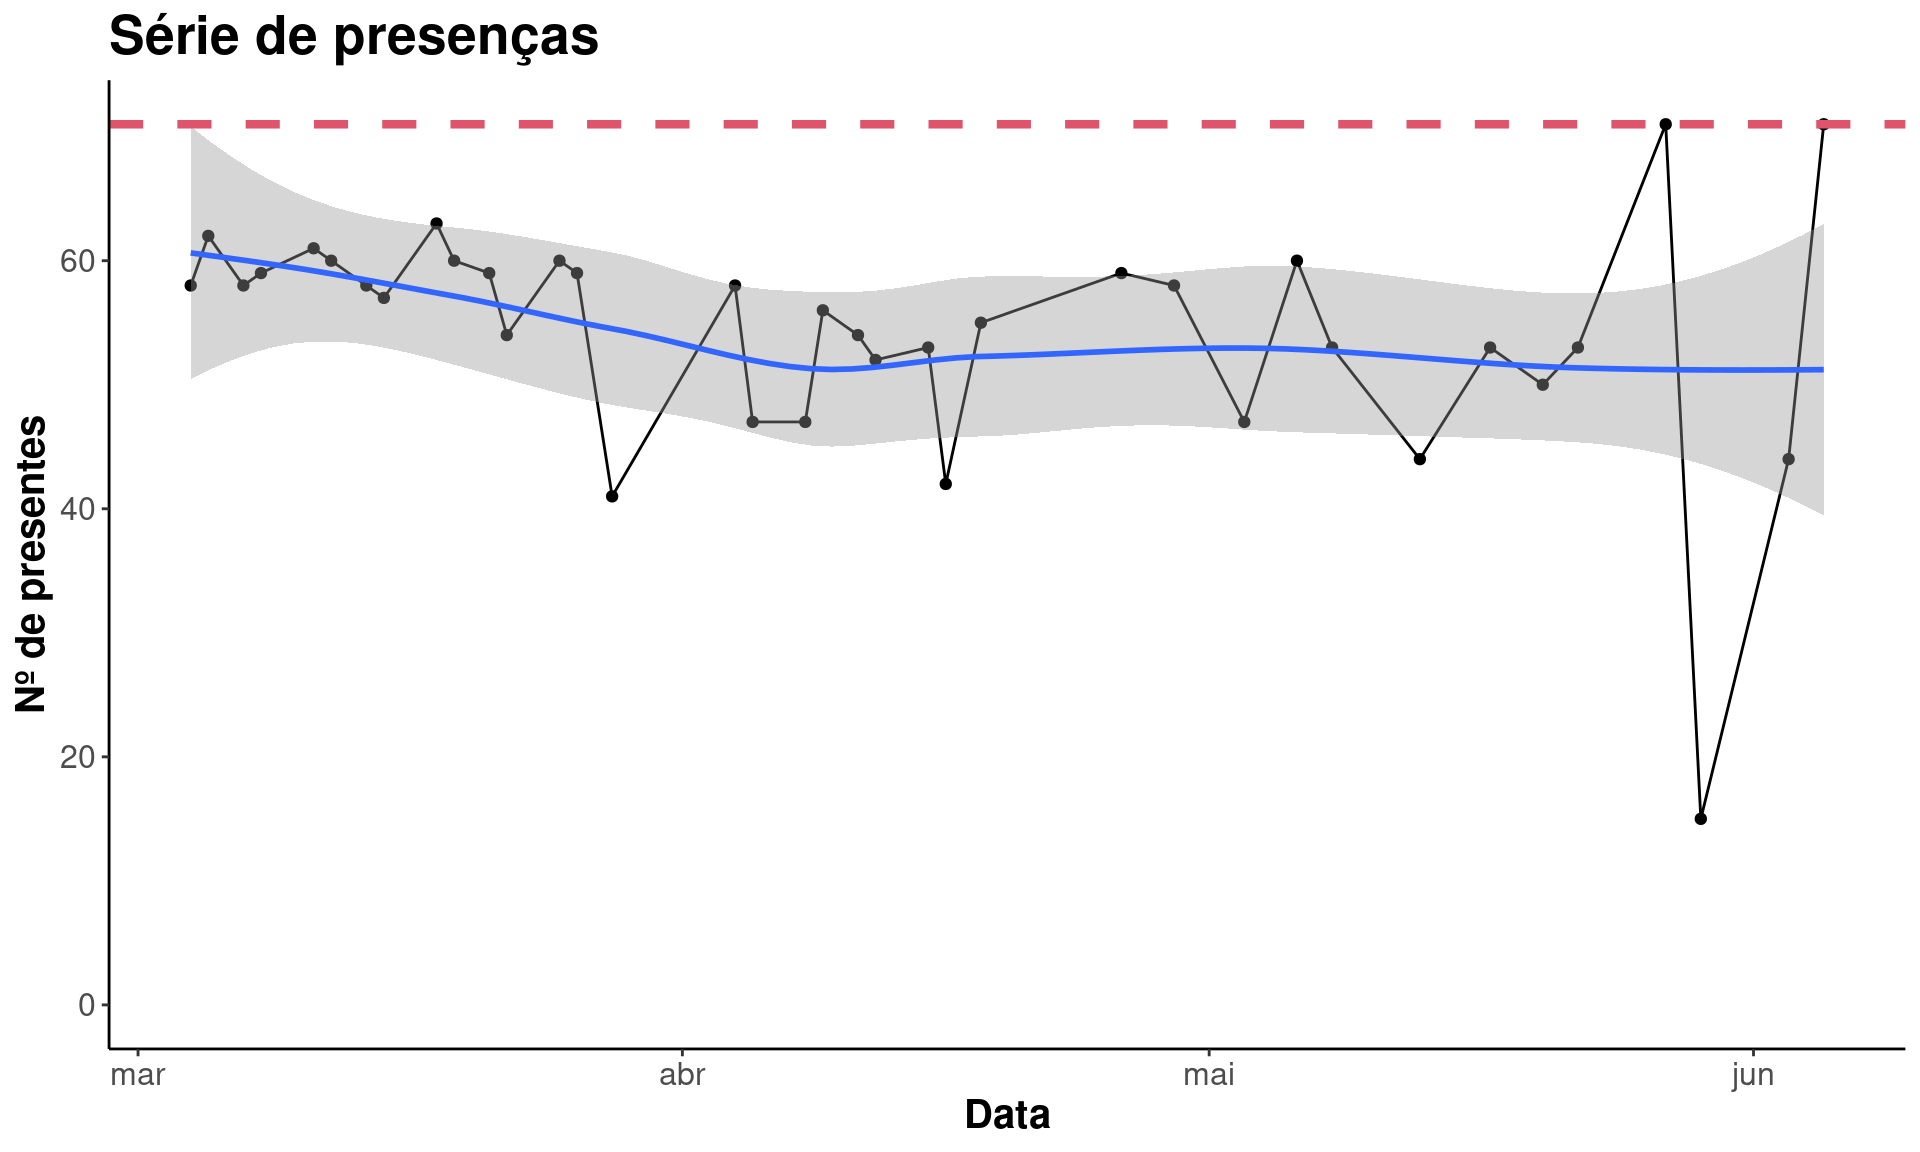
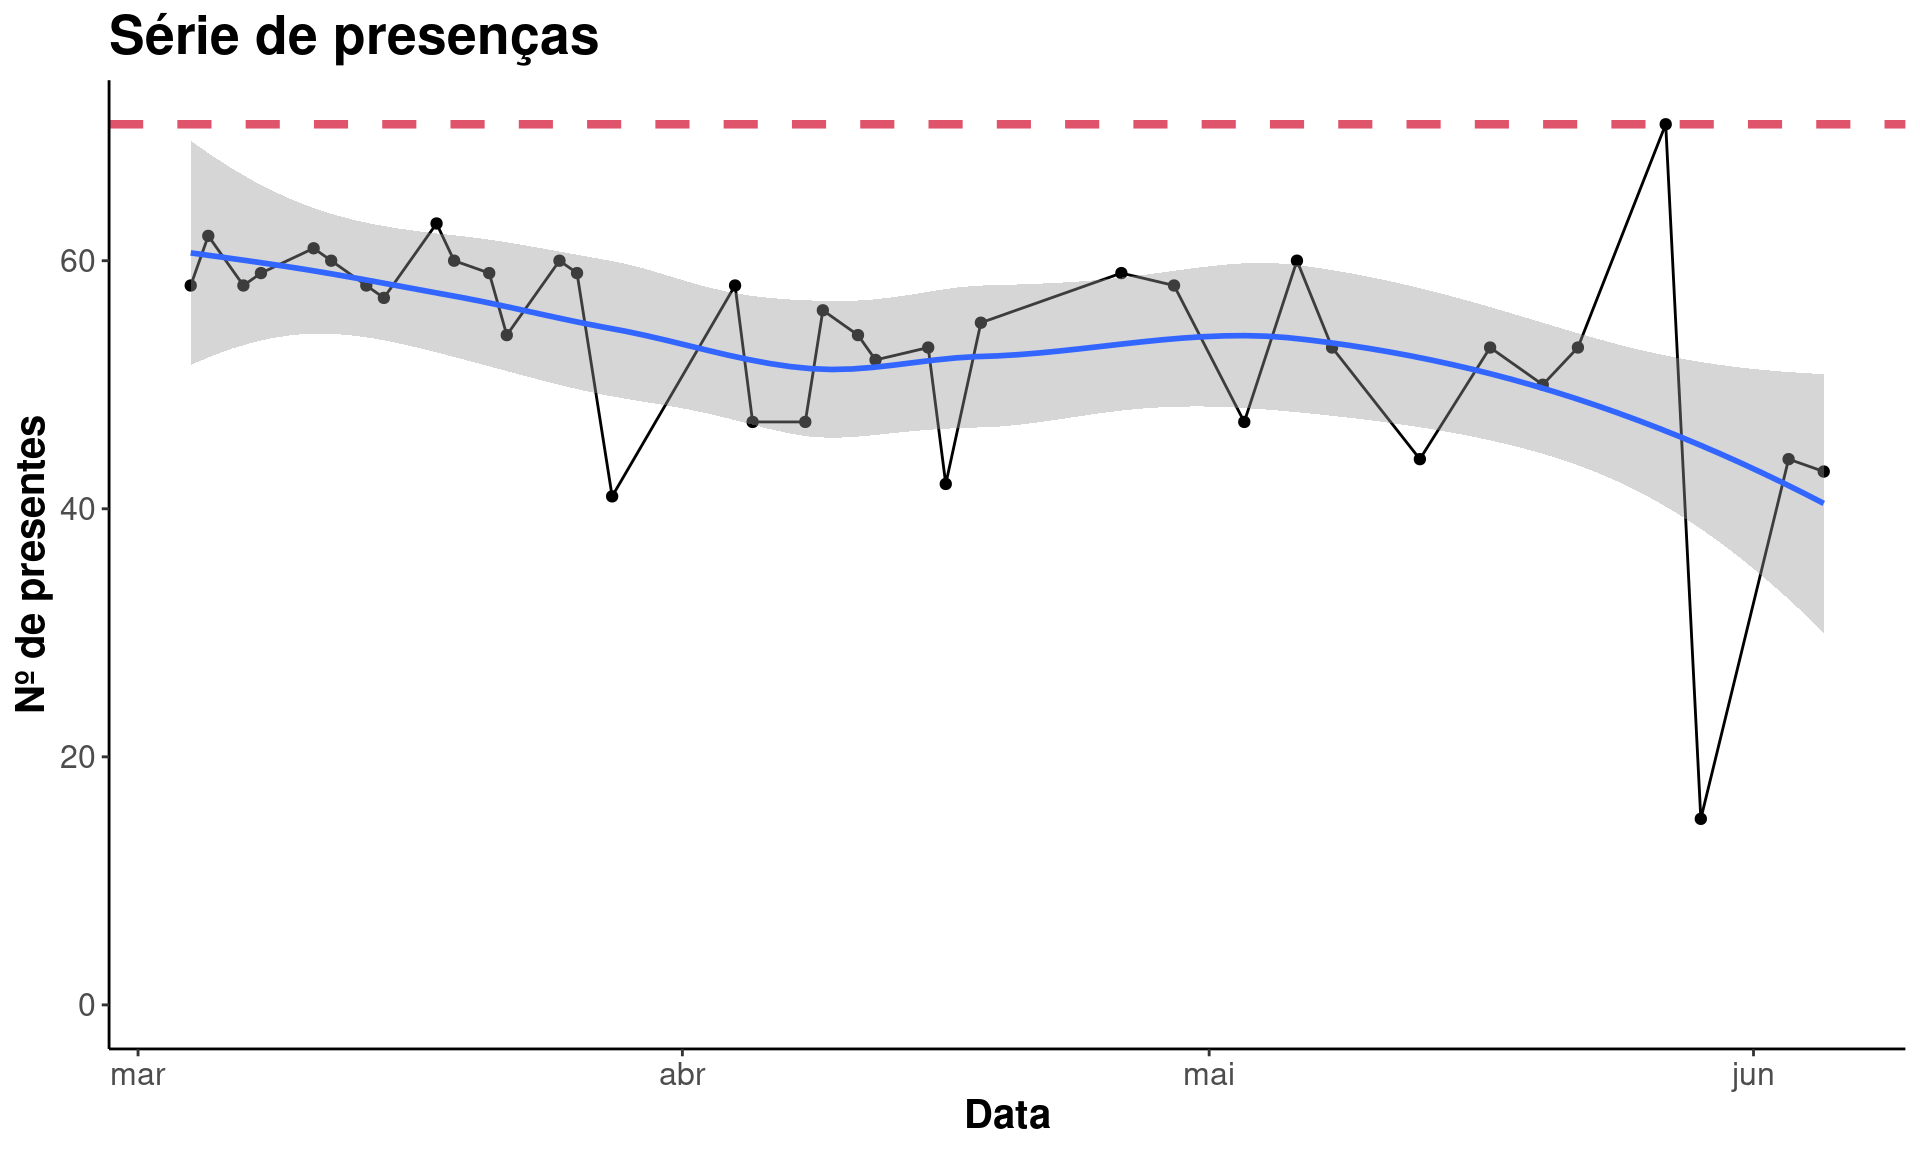
atualiza faltas

diff --git a/notas.html b/notas.html
@@ -423,7 +423,7 @@ Prof. Dra. Silvia Emiko Shimakura</div></h3>
 <p><br />
 </p>
 <div class="datatables html-widget html-fill-item-overflow-hidden html-fill-item" id="htmlwidget-7ca705643021e4e98bbe" style="width:100%;height:auto;"></div>
-<script type="application/json" data-for="htmlwidget-7ca705643021e4e98bbe">{"x":{"filter":"none","vertical":false,"editable":{"target":"cell","disable":{"columns":null},"numeric":[1,2,3,4,5,6,7,8,9,10],"date":[]},"data":[["GRR20233873","GRR20240210","GRR20242448","GRR20241331","GRR20244190","GRR20241678","GRR20243150","GRR20240436","GRR20243413","GRR20242873","GRR20242352","GRR20244982","GRR20222245","GRR20244660","GRR20240331","GRR20243352","GRR20242856","GRR20244777","GRR20233892","GRR20233896","GRR20243557","GRR20241963","GRR20241650","GRR20242304","GRR20240528","GRR20243637","GRR20241140","GRR20243507","GRR20243418","GRR20241848","GRR20243242","GRR20244697","GRR20242858","GRR20207109","GRR20240551","GRR20242315","GRR20245109","GRR20243481","GRR20242921","GRR20233900","GRR20241882","GRR20233913","GRR20243709","GRR20241855","GRR20240644","GRR20241293","GRR20212996","GRR20244651","GRR20242530","GRR20233895","GRR20233908","GRR20244852","GRR20241403","GRR20233910","GRR20233917","GRR20233901","GRR20242112","GRR20240395","GRR20244636","GRR20222235","GRR20245017","GRR20243266","GRR20242635","GRR20240257","GRR20244892","GRR20240323","GRR20235505","GRR20233890","GRR20242758","GRR20242968","GRR20241608"],[90,52,2,10,80,34,6,12,0,2,6,90,34,10,20,58,12,82,8,12,22,34,16,12,10,4,0,2,10,6,2,12,16,20,10,48,4,62,14,12,6,34,0,82,86,28,50,2,2,16,8,38,10,18,24,58,12,10,0,86,12,8,30,26,2,12,14,10,8,6,8],[null,null,9.25,9.699999999999999,null,5.3,9,8.75,7.5,7.55,8.35,null,7.1,8.85,8.85,null,8.550000000000001,null,8.25,2.9,6.8,9.25,8.050000000000001,8.5,8.050000000000001,8.699999999999999,8.199999999999999,8.300000000000001,8,3.8,6.25,7.5,8.800000000000001,4.43,8.9,3.2,8.15,null,6.65,5.7,5.45,3.7,8.949999999999999,null,null,8.35,6.2,8.800000000000001,9.1,6.8,8.550000000000001,9.35,8.25,6.05,8.1,null,5.5,4.5,9.550000000000001,null,8.6,9.1,2.9,2.85,7.2,7.1,4.6,7.85,8.300000000000001,9.4,8.25],[null,7.8,9.6,8.5,null,5.8,7.5,7.2,7.5,4.7,9.4,null,4,8,7,null,2.8,null,7.2,2.35,5.85,6.6,9.5,8.199999999999999,4.9,8.199999999999999,9.5,8.5,3.8,3.5,4.5,7.45,7.4,4,7.5,null,8.1,null,7.4,4.95,6.85,6.2,5.9,null,null,8.9,5.1,9,8.5,5.1,7.25,7,7.7,5,5.9,null,4.4,4.9,9,null,9.1,7,4.45,3.5,4.25,6.3,4.8,8.9,7.5,9.199999999999999,8.199999999999999],[null,9.300000000000001,9.800000000000001,9.300000000000001,null,2.1,8.800000000000001,9.300000000000001,8.9,4,9.6,null,null,9.9,5.2,null,8.199999999999999,null,4.4,0.8,6.8,7.9,8.5,8.5,4.7,5.1,7.6,6.6,5.6,3.7,6.5,null,6.6,1.8,7.5,null,8.5,null,7.1,4.8,6.4,2.8,7.2,null,null,null,null,9.5,9.6,3.2,5.4,null,5.5,3.7,3.5,null,5.6,null,10,null,9.800000000000001,6,null,1.3,3.7,7.6,3.6,7.7,7.9,9.800000000000001,7.8],[0,0,9.539999999999999,10,0,8.869999999999999,8.949999999999999,9.529999999999999,8.800000000000001,8.08,9.9,0,5.45,10,9.23,8.26,10,0,8.68,5.81,9.18,8.59,10,9.380000000000001,6.85,9.390000000000001,9.82,9.51,5.56,8.140000000000001,9.75,9.1,0,6.98,9.390000000000001,6.82,9.58,9.06,9.69,7.95,8.06,0,9.58,0,0,9.84,6.31,9.75,10,3.89,0,9.57,9.640000000000001,9.279999999999999,10,8.140000000000001,9.109999999999999,0,10,0,9.58,0,0,0,7.97,7.12,7.24,9.380000000000001,9.58,9.23,9.75],[0,0,9.789999999999999,9.75,0,5.42,9.789999999999999,9.59,8.25,5.79,9.789999999999999,0,3.81,9.789999999999999,7.42,0,8.33,0,9.539999999999999,4.34,9.44,9.539999999999999,9.48,8.630000000000001,7.52,8.65,9.75,9.130000000000001,8.289999999999999,8.08,9.539999999999999,9.44,9.17,5.94,9.75,5.75,9.75,0,8.23,9.48,9.289999999999999,9.380000000000001,9.44,0,0,9.75,7.42,9.789999999999999,9,7.9,8.23,7.71,8,6.66,9.48,0,9.06,4.36,9.44,0,9.75,9.789999999999999,0,7.56,7.19,6.23,8.039999999999999,9.58,9.5,8.98,9.75],[0,1.03,9.800000000000001,9.9,0,0,9.6,9.83,8.73,2.05,9.529999999999999,0,8.029999999999999,10,7.23,0,10,0,7.83,4.24,9,9.31,10,8.34,10,9.34,9.800000000000001,9.33,8.1,4.5,9.5,8.15,8.880000000000001,6.93,9.73,0,9.300000000000001,0,5.93,8.6,7.78,9.199999999999999,9.5,0,0,9.33,0,10,9.43,8.93,6.2,9.24,9.83,4.85,7.98,0,7.84,6.63,9.699999999999999,0,9.73,9.300000000000001,5.98,0,10,4.79,8.17,9.35,8.550000000000001,8.91,9.83],[0,8.91,10,9.1,0,0,9.67,9.800000000000001,7.02,1,8.869999999999999,0,0,9.800000000000001,6.32,0,9.6,0,5.73,0,8.9,6.77,9.6,9.06,9.07,7.16,9.800000000000001,8.609999999999999,7.86,3.19,9.32,7.61,6.99,0,8.73,0,8.51,0,9.01,9.52,8.859999999999999,9.4,9.300000000000001,0,0,7.01,0,10,9.470000000000001,5.42,8.81,0,7.81,8.75,9.800000000000001,0,9.17,2.15,9.859999999999999,0,9.6,9.4,0,2.05,6.5,6.52,8.09,9.16,8.619999999999999,9.710000000000001,8.359999999999999],[0,0,10,8,0,9.5,9.5,8.5,9,8.5,10,0,9,9.5,9,0,10,0,10,0,10,10,10,9,10,9,10,10,9,8.5,9.5,9.5,10,0,8.5,9,9.5,0,9,8,8,9,9.5,0,0,10,0,10,9.5,10,7,10,9.5,10,10,0,8,0,10,0,9.5,9.5,9,8,9,9,0,10,8,9,10],[0,9.5,9.5,10,0,9,9.5,9,10,0,10,0,0,10,9,0,9.5,0,10,0,9.5,10,9.5,10,10,9.5,10,10,10,10,10,10,10,0,0,0,10,0,0,9,9.5,0,9.5,0,0,9.5,0,10,10,10,10,0,9,10,0,0,9,0,9.5,0,9.5,10,10,9,9.5,10,10,9.5,9.5,10,9.5]],"container":"<table class=\"cell-border stripe\">\n  <thead>\n    <tr>\n      <th>GRR<\/th>\n      <th>FALTAS<\/th>\n      <th>PROVA 1<\/th>\n      <th>PROVA 2<\/th>\n      <th>PROVA 3<\/th>\n      <th>REMOTA 1<\/th>\n      <th>REMOTA 2<\/th>\n      <th>REMOTA 3<\/th>\n      <th>REMOTA 4<\/th>\n      <th>TRABALHO 1<\/th>\n      <th>TRABALHO 2<\/th>\n    <\/tr>\n  <\/thead>\n<\/table>","options":{"columnDefs":[{"className":"dt-right","targets":[1,2,3,4,5,6,7,8,9,10]}],"order":[],"autoWidth":false,"orderClasses":false}},"evals":[],"jsHooks":[]}</script>
+<script type="application/json" data-for="htmlwidget-7ca705643021e4e98bbe">{"x":{"filter":"none","vertical":false,"editable":{"target":"cell","disable":{"columns":null},"numeric":[1,2,3,4,5,6,7,8,9,10],"date":[]},"data":[["GRR20233873","GRR20240210","GRR20242448","GRR20241331","GRR20244190","GRR20241678","GRR20243150","GRR20240436","GRR20243413","GRR20242873","GRR20242352","GRR20244982","GRR20222245","GRR20244660","GRR20240331","GRR20243352","GRR20242856","GRR20244777","GRR20233892","GRR20233896","GRR20243557","GRR20241963","GRR20241650","GRR20242304","GRR20240528","GRR20243637","GRR20241140","GRR20243507","GRR20243418","GRR20241848","GRR20243242","GRR20244697","GRR20242858","GRR20207109","GRR20240551","GRR20242315","GRR20245109","GRR20243481","GRR20242921","GRR20233900","GRR20241882","GRR20233913","GRR20243709","GRR20241855","GRR20240644","GRR20241293","GRR20212996","GRR20244651","GRR20242530","GRR20233895","GRR20233908","GRR20244852","GRR20241403","GRR20233910","GRR20233917","GRR20233901","GRR20242112","GRR20240395","GRR20244636","GRR20222235","GRR20245017","GRR20243266","GRR20242635","GRR20240257","GRR20244892","GRR20240323","GRR20235505","GRR20233890","GRR20242758","GRR20242968","GRR20241608"],[94,52,2,10,84,38,6,16,0,2,10,94,38,10,20,62,12,86,12,12,22,34,16,12,10,4,0,2,10,6,2,12,16,20,14,52,8,66,14,12,10,38,0,86,90,28,54,2,2,16,8,42,10,18,28,62,16,10,0,90,12,8,34,30,2,16,14,14,8,6,8],[null,null,9.25,9.699999999999999,null,5.3,9,8.75,7.5,7.55,8.35,null,7.1,8.85,8.85,null,8.550000000000001,null,8.25,2.9,6.8,9.25,8.050000000000001,8.5,8.050000000000001,8.699999999999999,8.199999999999999,8.300000000000001,8,3.8,6.25,7.5,8.800000000000001,4.43,8.9,3.2,8.15,null,6.65,5.7,5.45,3.7,8.949999999999999,null,null,8.35,6.2,8.800000000000001,9.1,6.8,8.550000000000001,9.35,8.25,6.05,8.1,null,5.5,4.5,9.550000000000001,null,8.6,9.1,2.9,2.85,7.2,7.1,4.6,7.85,8.300000000000001,9.4,8.25],[null,7.8,9.6,8.5,null,5.8,7.5,7.2,7.5,4.7,9.4,null,4,8,7,null,2.8,null,7.2,2.35,5.85,6.6,9.5,8.199999999999999,4.9,8.199999999999999,9.5,8.5,3.8,3.5,4.5,7.45,7.4,4,7.5,null,8.1,null,7.4,4.95,6.85,6.2,5.9,null,null,8.9,5.1,9,8.5,5.1,7.25,7,7.7,5,5.9,null,4.4,4.9,9,null,9.1,7,4.45,3.5,4.25,6.3,4.8,8.9,7.5,9.199999999999999,8.199999999999999],[null,9.300000000000001,9.800000000000001,9.300000000000001,null,2.1,8.800000000000001,9.300000000000001,8.9,4,9.6,null,null,9.9,5.2,null,8.199999999999999,null,4.4,0.8,6.8,7.9,8.5,8.5,4.7,5.1,7.6,6.6,5.6,3.7,6.5,null,6.6,1.8,7.5,null,8.5,null,7.1,4.8,6.4,2.8,7.2,null,null,null,null,9.5,9.6,3.2,5.4,null,5.5,3.7,3.5,null,5.6,null,10,null,9.800000000000001,6,null,1.3,3.7,7.6,3.6,7.7,7.9,9.800000000000001,7.8],[0,0,9.539999999999999,10,0,8.869999999999999,8.949999999999999,9.529999999999999,8.800000000000001,8.08,9.9,0,5.45,10,9.23,8.26,10,0,8.68,5.81,9.18,8.59,10,9.380000000000001,6.85,9.390000000000001,9.82,9.51,5.56,8.140000000000001,9.75,9.1,0,6.98,9.390000000000001,6.82,9.58,9.06,9.69,7.95,8.06,0,9.58,0,0,9.84,6.31,9.75,10,3.89,0,9.57,9.640000000000001,9.279999999999999,10,8.140000000000001,9.109999999999999,0,10,0,9.58,0,0,0,7.97,7.12,7.24,9.380000000000001,9.58,9.23,9.75],[0,0,9.789999999999999,9.75,0,5.42,9.789999999999999,9.59,8.25,5.79,9.789999999999999,0,3.81,9.789999999999999,7.42,0,8.33,0,9.539999999999999,4.34,9.44,9.539999999999999,9.48,8.630000000000001,7.52,8.65,9.75,9.130000000000001,8.289999999999999,8.08,9.539999999999999,9.44,9.17,5.94,9.75,5.75,9.75,0,8.23,9.48,9.289999999999999,9.380000000000001,9.44,0,0,9.75,7.42,9.789999999999999,9,7.9,8.23,7.71,8,6.66,9.48,0,9.06,4.36,9.44,0,9.75,9.789999999999999,0,7.56,7.19,6.23,8.039999999999999,9.58,9.5,8.98,9.75],[0,1.03,9.800000000000001,9.9,0,0,9.6,9.83,8.73,2.05,9.529999999999999,0,8.029999999999999,10,7.23,0,10,0,7.83,4.24,9,9.31,10,8.34,10,9.34,9.800000000000001,9.33,8.1,4.5,9.5,8.15,8.880000000000001,6.93,9.73,0,9.300000000000001,0,5.93,8.6,7.78,9.199999999999999,9.5,0,0,9.33,0,10,9.43,8.93,6.2,9.24,9.83,4.85,7.98,0,7.84,6.63,9.699999999999999,0,9.73,9.300000000000001,5.98,0,10,4.79,8.17,9.35,8.550000000000001,8.91,9.83],[0,8.91,10,9.1,0,0,9.67,9.800000000000001,7.02,1,8.869999999999999,0,0,9.800000000000001,6.32,0,9.6,0,5.73,0,8.9,6.77,9.6,9.06,9.07,7.16,9.800000000000001,8.609999999999999,7.86,3.19,9.32,7.61,6.99,0,8.73,0,8.51,0,9.01,9.52,8.859999999999999,9.4,9.300000000000001,0,0,7.01,0,10,9.470000000000001,5.42,8.81,0,7.81,8.75,9.800000000000001,0,9.17,2.15,9.859999999999999,0,9.6,9.4,0,2.05,6.5,6.52,8.09,9.16,8.619999999999999,9.710000000000001,8.359999999999999],[0,0,10,8,0,9.5,9.5,8.5,9,8.5,10,0,9,9.5,9,0,10,0,10,0,10,10,10,9,10,9,10,10,9,8.5,9.5,9.5,10,0,8.5,9,9.5,0,9,8,8,9,9.5,0,0,10,0,10,9.5,10,7,10,9.5,10,10,0,8,0,10,0,9.5,9.5,9,8,9,9,0,10,8,9,10],[0,9.5,9.5,10,0,9,9.5,9,10,0,10,0,0,10,9,0,9.5,0,10,0,9.5,10,9.5,10,10,9.5,10,10,10,10,10,10,10,0,0,0,10,0,0,9,9.5,0,9.5,0,0,9.5,0,10,10,10,10,0,9,10,0,0,9,0,9.5,0,9.5,10,10,9,9.5,10,10,9.5,9.5,10,9.5]],"container":"<table class=\"cell-border stripe\">\n  <thead>\n    <tr>\n      <th>GRR<\/th>\n      <th>FALTAS<\/th>\n      <th>PROVA 1<\/th>\n      <th>PROVA 2<\/th>\n      <th>PROVA 3<\/th>\n      <th>REMOTA 1<\/th>\n      <th>REMOTA 2<\/th>\n      <th>REMOTA 3<\/th>\n      <th>REMOTA 4<\/th>\n      <th>TRABALHO 1<\/th>\n      <th>TRABALHO 2<\/th>\n    <\/tr>\n  <\/thead>\n<\/table>","options":{"columnDefs":[{"className":"dt-right","targets":[1,2,3,4,5,6,7,8,9,10]}],"order":[],"autoWidth":false,"orderClasses":false}},"evals":[],"jsHooks":[]}</script>
 <center>
 <table style="width:71%;">
 <colgroup>
@@ -450,9 +450,9 @@ Prof. Dra. Silvia Emiko Shimakura</div></h3>
 <tr class="odd">
 <td align="center">37</td>
 <td align="center">15</td>
-<td align="center">52</td>
-<td align="center">54.35</td>
-<td align="center">57</td>
+<td align="center">50</td>
+<td align="center">53.59</td>
+<td align="center">56</td>
 <td align="center">59</td>
 <td align="center">71</td>
 </tr>
@@ -474,8 +474,8 @@ Prof. Dra. Silvia Emiko Shimakura</div></h3>
 <tbody>
 <tr class="odd">
 <td align="center">56</td>
-<td align="center">91.96</td>
-<td align="center">9.589</td>
+<td align="center">87.25</td>
+<td align="center">9.341</td>
 </tr>
 </tbody>
 </table>
